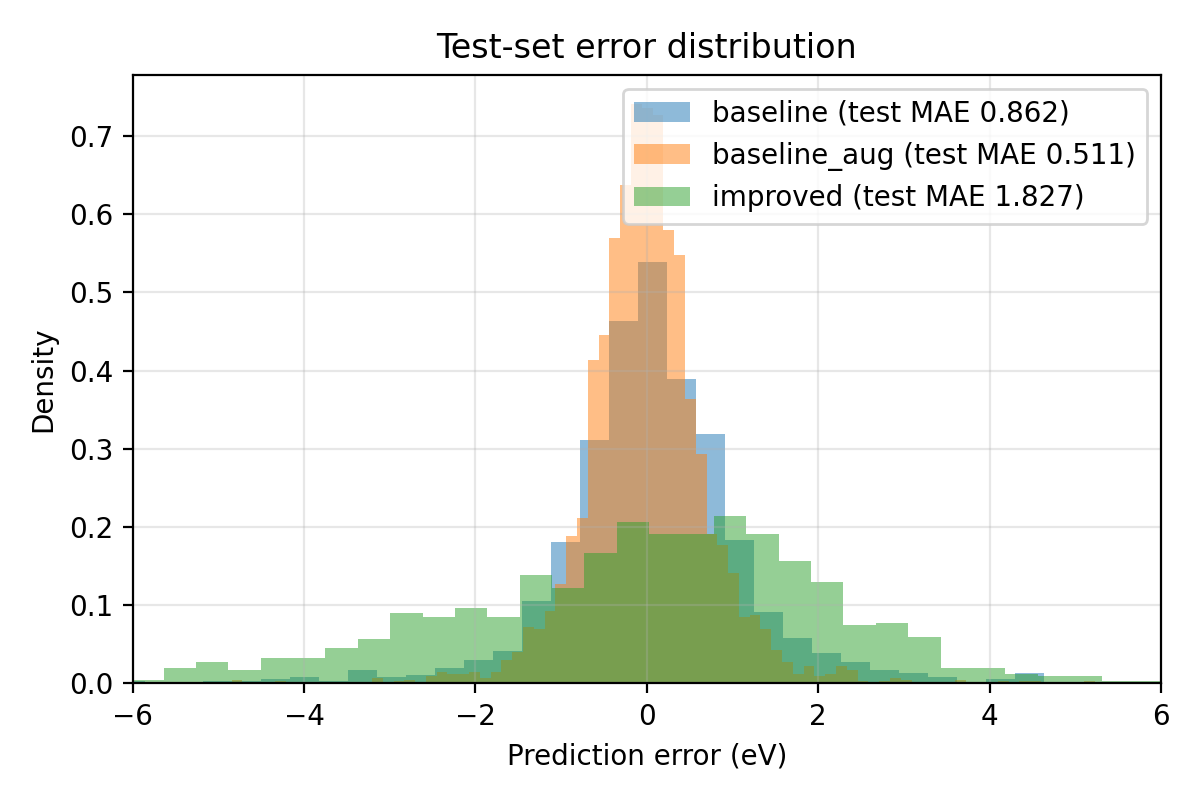
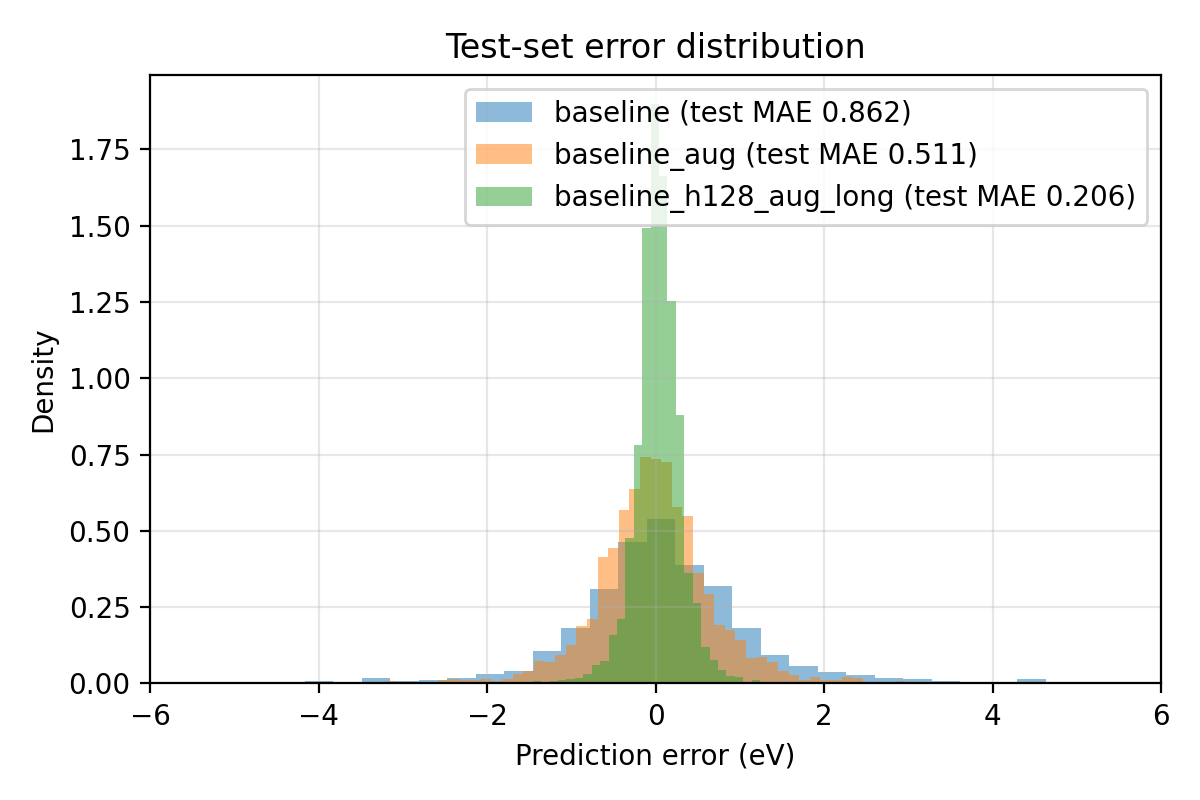
docs: 论文头条改为 0.206 eV (baseline_h128_aug_long, 0.75M)
- 标题改为"以 1/5 参数突破 ALIGNN: 在 IMP2D 上达到 0.21 eV MAE"
- 摘要数字更新: 0.20 M → 0.75 M; 0.51 → 0.21; 优于 ALIGNN 22% → 2.6x
- 表 1 头部新增 baseline_h128_aug_long 行 (0.206 / 0.310 / 0.990)
- 图脚本 highlight 切换为 baseline_h128_aug_long / baseline_aug / baseline 三配置
- 增加项目立项目标"MAE < 0.2 eV"达成的明示

Changed region(s): [[0.0617, 0.0312, 0.9558, 0.9062], [0.4317, 0.9062, 0.6783, 0.9688]]

diff --git a/scripts/make_figures.py b/scripts/make_figures.py
@@ -129,11 +129,11 @@ def main() -> None:
         print("No runs found in results/. Train something first.", file=sys.stderr)
         return
 
-    # Highlight set: best three configurations of interest for parity / error dist
+    # Highlight set: 3 representative configurations spanning the result range
     headline_keys = [
-        "baseline_aug",
-        "baseline",
-        "improved",
+        "baseline_h128_aug_long",  # best
+        "baseline_aug",            # representative aug
+        "baseline",                # plain baseline
     ]
     headline = {
         f"{k} (test MAE {v['test_mae']:.3f})": v